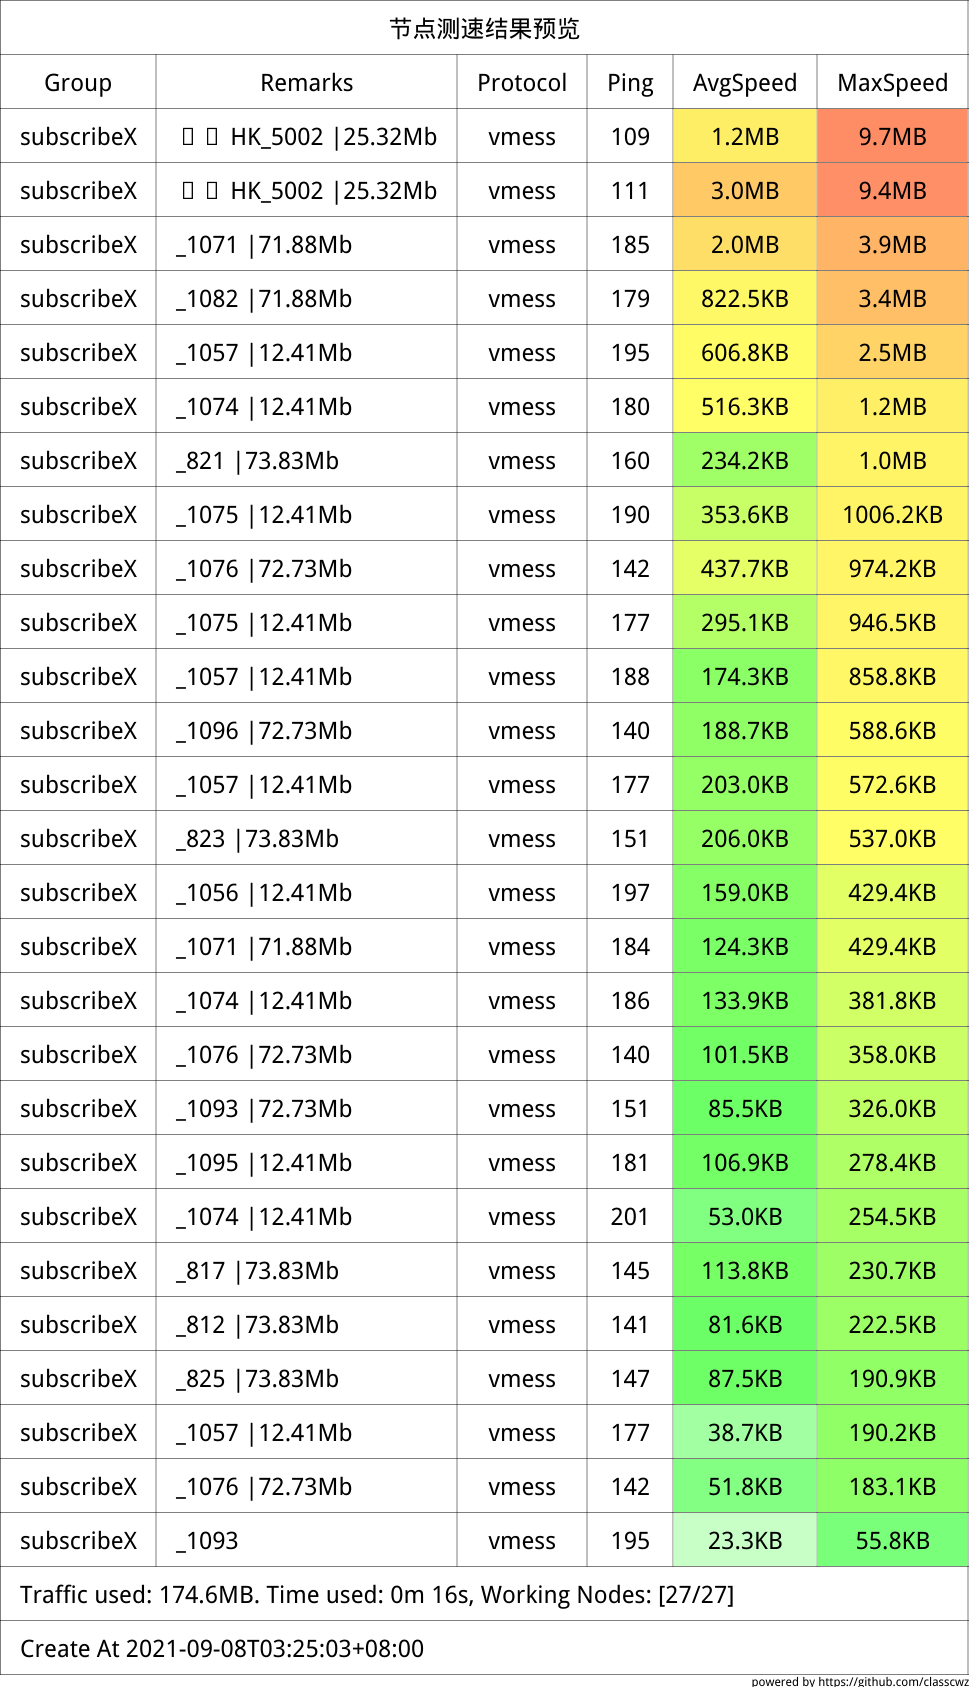
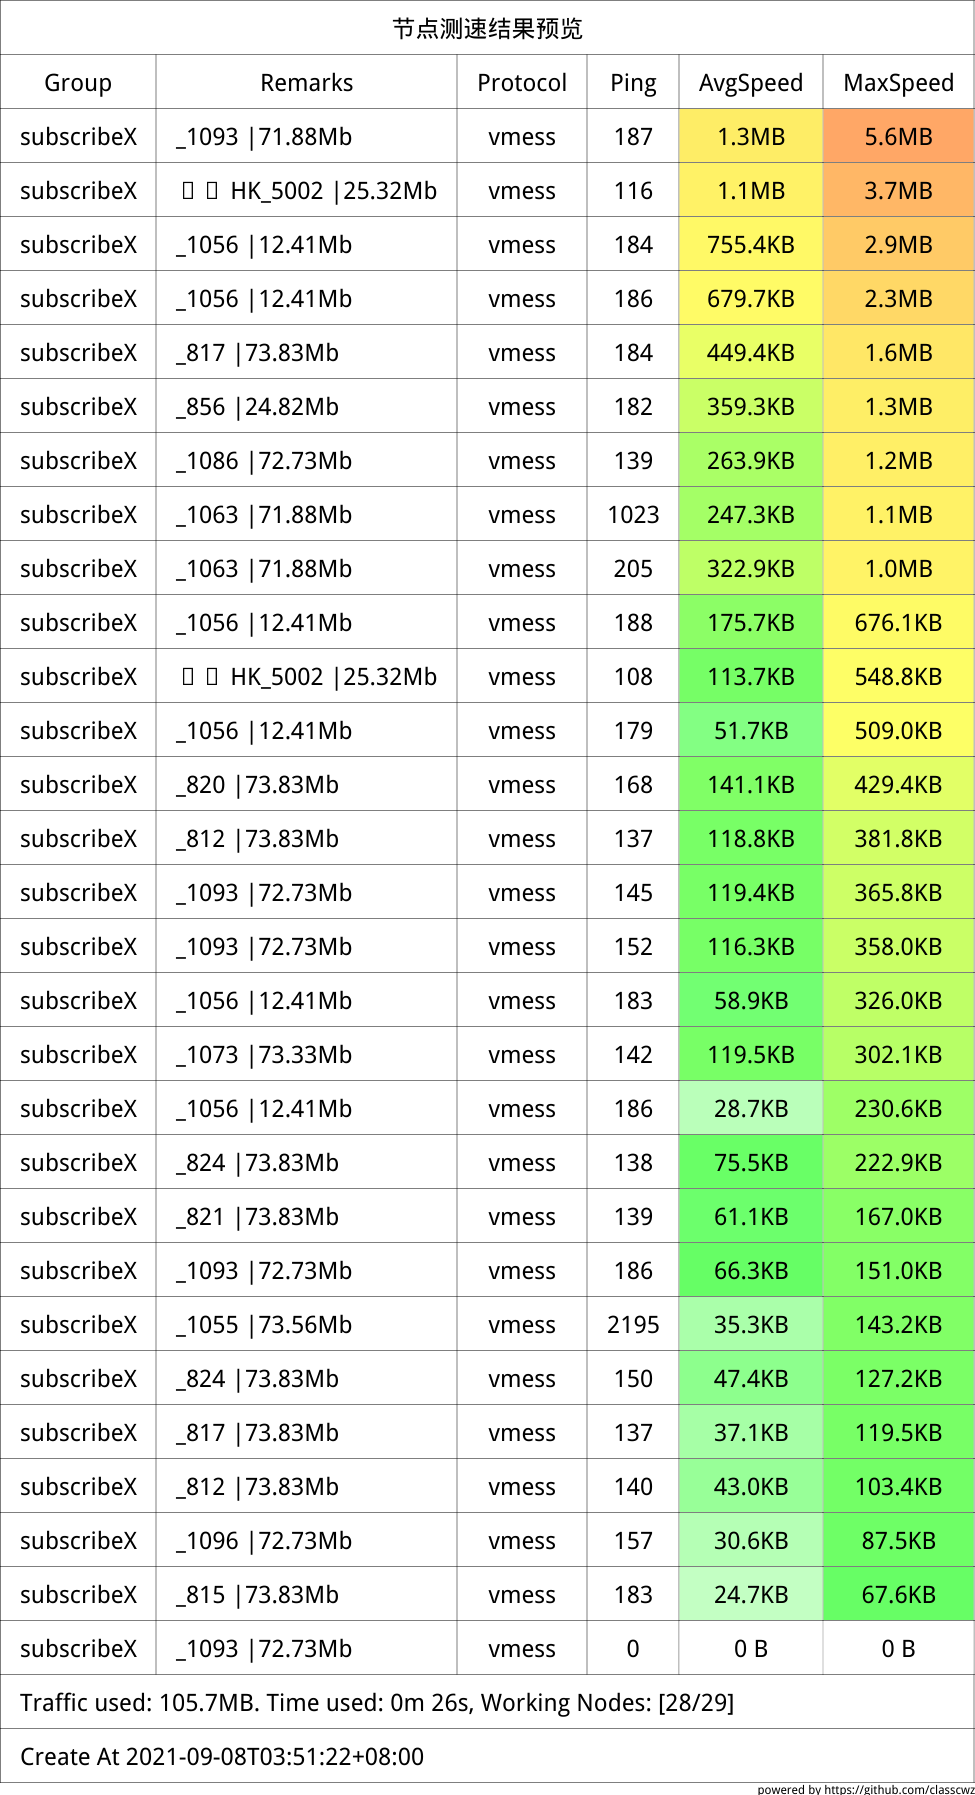
更新订阅链接

diff --git a/README.md b/README.md
@@ -1,4 +1,4 @@
-节点更新时间：2021-09-08 03:30:04 <!-- 星期 3 -->
+节点更新时间：2021-09-08 04:00:06 <!-- 星期 3 -->
 
 -----------------------------------------------科学上网极速订阅-------------------------------------------------
 
